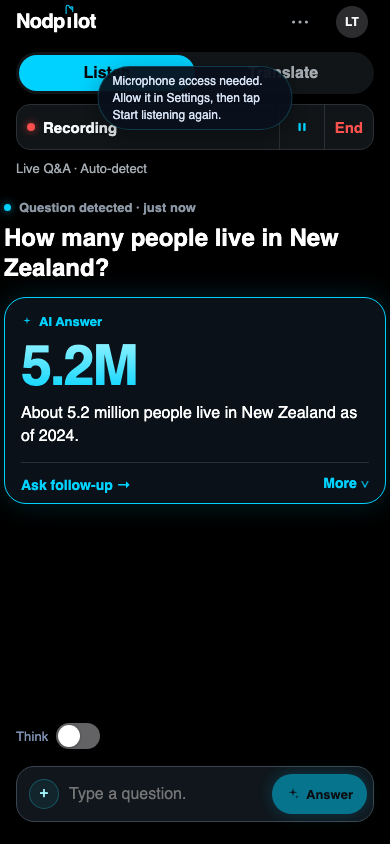
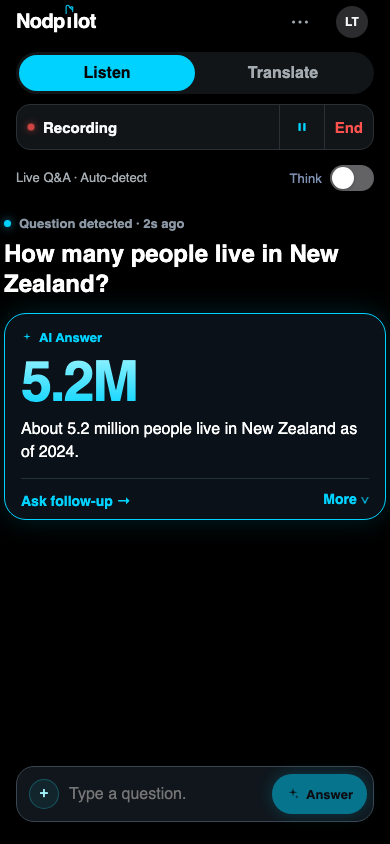
fix(listen): move the Think switch under End, right of the mode line (#219)
The phone Live Q&A kept the Think switch above the composer. Per the confirmed
#219 design it belongs in the recording chrome: under End, right-aligned on the
same row as the `Live Q&A · Auto-detect` mode line, with the 44 pt touch target
and no bottom copy.

- New `ThinkSwitch` component (label + iOS-style switch, role=switch,
  aria-checked, aria-label=Think); AnswerPane keeps it inline for wider layouts
  via `showThink={!phone}`, ListenPane renders it in the phone chrome.
- The phone's locked-settings row became a flex row: mode text left, switch
  right, wrapping only when the screen genuinely cannot fit both. The mode line
  is allowed to size to its text (the phone chrome's `width: 100%` would
  otherwise push the switch onto a second line).
- The composer no longer carries a Think row on the phone.
- When the phone shows the editable chips instead of the mode line (`!ready`,
  e.g. Live Q&A entered from a meeting that already has lines) the composer is
  still on screen, so the switch keeps its own right-aligned row rather than
  disappearing with the old placement.

Tests: think.spec.ts now pins the desktop inline row and, at 390x844, that the
row sits below End, right of the mode line, right-aligned, >=44 pt, with exactly
one switch and no `.listen-qa .think-row`; plus the editable-settings state.
`docs/design/think-182/phone-think-{off,on}.png` regenerated as evidence.

diff --git a/web/e2e/think.spec.ts b/web/e2e/think.spec.ts
@@ -46,7 +46,7 @@ function shot(page: import('@playwright/test').Page, name: string) {
 }
 
 test.describe('Think switch', () => {
-  test('sits above the Live Q&A input, defaults to off, and is absent elsewhere', async ({ page }) => {
+  test('keeps the inline switch above the input off-phone, defaults to off, and is absent elsewhere', async ({ page }) => {
     await mockWs(page)
 
     const toggle = page.getByRole('switch', { name: 'Think' })
@@ -56,12 +56,15 @@ test.describe('Think switch', () => {
     await expect(toggle.locator('.think-switch')).toBeVisible()
     await expect(toggle.locator('.think-dot')).toHaveCount(0)
 
-    // It sits ABOVE the existing input, which stays visible and unchanged.
+    // Wider layouts keep the switch inline: ABOVE the existing input, which stays
+    // visible and unchanged. The phone moves it into the recording chrome instead
+    // (the phone-viewport test below).
     const toggleBox = await toggle.boundingBox()
     const inputBox = await page.locator('.prompt-input').boundingBox()
     expect(toggleBox).not.toBeNull()
     expect(inputBox).not.toBeNull()
     expect(toggleBox!.y).toBeLessThan(inputBox!.y)
+    await expect(page.locator('.think-row')).toBeVisible()
     await expect(page.locator('.prompt-input')).toBeVisible()
     await shot(page, 'interview-think-off')
 
@@ -502,26 +505,69 @@ test.describe('Think answer rendering', () => {
 })
 
 /**
- * Phone-width before/after evidence (#182 acceptance: the composer must stay
- * usable with the keyboard up). The on-screen keyboard itself is a native
+ * Phone-width before/after evidence (#219: the Think switch belongs to the
+ * recording chrome, not the composer). The on-screen keyboard itself is a native
  * overlay a browser cannot draw — the layout side of that is covered by the
  * `keyboardInset` unit test — so these shots pin the phone layout itself.
  */
 test.describe('Think on a phone viewport', () => {
   test.use({ viewport: { width: 390, height: 844 } })
 
-  test('shows the switch above the composer, off and on', async ({ page }) => {
-    const { send } = await mockWs(page)
-    // A phone only has the Live Q&A composer inside a live session: on its own
-    // Ready screen there is no input to sit above. Mark capture listening.
+  test('sits under End, right of the mode line, off and on', async ({ page }) => {
+    const { sent, send } = await mockWs(page)
+    // A phone only shows the recording chrome and the mode line inside a live
+    // session: on the Ready screen there is no End button to sit under.
     send({ type: 'phase', capture: 'listening', engine: 'idle' })
     const toggle = page.getByRole('switch', { name: 'Think' })
     await expect(toggle).toBeVisible()
     await expect(toggle).toHaveAttribute('aria-checked', 'false')
+    // Exactly one switch: the composer must not keep a second, bottom copy.
+    await expect(page.getByRole('switch', { name: 'Think' })).toHaveCount(1)
+    await expect(page.locator('.listen-qa .think-row')).toHaveCount(0)
+    await expect(page.locator('.iphone-meta-row .think-toggle')).toHaveCount(1)
+
+    const toggleBox = await toggle.boundingBox()
+    const endBox = await page.locator('.iphone-rec-end').boundingBox()
+    const metaBox = await page.locator('.iphone-meta-row .iphone-meta').boundingBox()
+    const rowBox = await page.locator('.iphone-meta-row').boundingBox()
+    expect(toggleBox).not.toBeNull()
+    expect(endBox).not.toBeNull()
+    expect(metaBox).not.toBeNull()
+    expect(rowBox).not.toBeNull()
+    // Under the End button (the recording bar is directly above this row) ...
+    expect(toggleBox!.y).toBeGreaterThanOrEqual(endBox!.y + endBox!.height)
+    // ... on the SAME line as the mode description: left text, right switch ...
+    expect(metaBox!.x + metaBox!.width).toBeLessThanOrEqual(toggleBox!.x)
+    expect(Math.abs((metaBox!.y + metaBox!.height / 2) - (toggleBox!.y + toggleBox!.height / 2))).toBeLessThan(12)
+    // ... and right-aligned inside the row, with a >=44 pt touch target.
+    expect(toggleBox!.x).toBeGreaterThan(rowBox!.x + rowBox!.width / 2)
+    expect(toggleBox!.height).toBeGreaterThanOrEqual(44)
+    // The app asks for mic access when the mocked recorder starts; a browser
+    // without one leaves its "Microphone access needed" toast over the top bar
+    // for 2 s. It is unrelated to this switch, so let it clear before the shot.
+    await page.waitForTimeout(2400)
     await shot(page, 'phone-think-off')
 
     await toggle.click()
     await expect(toggle).toHaveAttribute('aria-checked', 'true')
+    // Toggling is not a submit.
+    expect(sent.filter((m) => m.type === 'ask')).toHaveLength(0)
     await shot(page, 'phone-think-on')
+  })
+
+  test('keeps the switch reachable while Live Q&A shows editable settings', async ({ page }) => {
+    // Live Q&A entered from a meeting that already has lines: capture is off, so
+    // the phone shows the editable chips instead of the mode line — but the Q&A
+    // composer is still on screen, so the switch must not disappear with the old
+    // composer placement.
+    await mockWs(page, '/app?demo=meeting')
+    await page.getByRole('button', { name: /^Meeting/ }).click()
+    await page.getByRole('option', { name: /Live Q&A/ }).click()
+    await expect(page.locator('.prompt-input')).toBeVisible()
+    const toggle = page.getByRole('switch', { name: 'Think' })
+    await expect(toggle).toBeVisible()
+    await expect(page.locator('.iphone-meta-row .think-toggle')).toHaveCount(1)
+    await expect(page.locator('.iphone-meta')).toHaveCount(0)
+    await expect(page.locator('.listen-qa .think-row')).toHaveCount(0)
   })
 })

diff --git a/web/src/components/ListenPane.tsx b/web/src/components/ListenPane.tsx
@@ -44,6 +44,7 @@ import AskBubble from './AskBubble'
 import ListenRecordBar from './ListenRecordBar'
 import PhoneSheet from './PhoneSheet'
 import SpeakerAvatar from './SpeakerAvatar'
+import ThinkSwitch from './ThinkSwitch'
 
 interface Props {
   scene: ListenScene
@@ -68,6 +69,9 @@ interface Props {
   notesReveal?: number
   qa?: boolean
   qaSlot?: ReactNode
+  /** #219: the phone's Live Q&A Think switch, rendered under End on the mode line. */
+  think?: boolean
+  onThink?: (on: boolean) => void
   onScene: (scene: ListenScene) => void
   speechLang: Lang
   heardLang?: PairLang | null
@@ -1667,20 +1671,50 @@ export default function ListenPane(props: Props) {
           {endedSheetUi ? (
             settingsList(IPHONE_COPY.appliesToNextRecording)
           ) : settingsLockedUi ? (
-            <p className="iphone-meta" aria-label={IPHONE_COPY.settingsReadonlyAria}>
-              {listenMetaLine({
-                scene: props.scene,
-                speakersId: props.meetingSpeakersId,
-                speechLang: props.speechLang,
-                notesLang: props.notesLang,
-                qa: Boolean(props.qa),
-              })}
-            </p>
+            props.qa ? (
+              // #219: the Think switch sits under End, right-aligned on the same
+              // row as the Live Q&A · Auto-detect mode line. It is not repeated
+              // at the bottom of the composer.
+              <div className="iphone-meta-row">
+                <p className="iphone-meta" aria-label={IPHONE_COPY.settingsReadonlyAria}>
+                  {listenMetaLine({
+                    scene: props.scene,
+                    speakersId: props.meetingSpeakersId,
+                    speechLang: props.speechLang,
+                    notesLang: props.notesLang,
+                    qa: Boolean(props.qa),
+                  })}
+                </p>
+                {props.onThink ? (
+                  <ThinkSwitch on={Boolean(props.think)} onToggle={props.onThink} />
+                ) : null}
+              </div>
+            ) : (
+              <p className="iphone-meta" aria-label={IPHONE_COPY.settingsReadonlyAria}>
+                {listenMetaLine({
+                  scene: props.scene,
+                  speakersId: props.meetingSpeakersId,
+                  speechLang: props.speechLang,
+                  notesLang: props.notesLang,
+                  qa: Boolean(props.qa),
+                })}
+              </p>
+            )
           ) : settingsEndedUi ? (
             settingsList(IPHONE_COPY.appliesToNextRecording)
           ) : askPlacement === 'bar' ? null : (
             controls
           )}
+          {/* #219: whenever the phone is not actively listening/paused it shows the
+              editable settings (or nothing) instead of the mode line, while the
+              Live Q&A composer can still be on screen (e.g. a meeting's lines
+              carried into Live Q&A). The switch keeps its own right-aligned row
+              there rather than vanishing with the old composer placement. */}
+          {!settingsLockedUi && props.qa && props.onThink ? (
+            <div className="iphone-meta-row">
+              <ThinkSwitch on={Boolean(props.think)} onToggle={props.onThink} />
+            </div>
+          ) : null}
           {props.showSavedLine ? (
             <div className="iphone-saved-line">
               <span className="iphone-saved-check" aria-hidden="true">✓</span>

diff --git a/web/src/components/AnswerPane.tsx b/web/src/components/AnswerPane.tsx
@@ -5,6 +5,7 @@ import { toPayload } from '../attach'
 import { QaAnswerCard } from './QaAnswerCard'
 import PromptAttach from './PromptAttach'
 import EmptyState from './EmptyState'
+import ThinkSwitch from './ThinkSwitch'
 
 interface Props {
   currentQ: string
@@ -14,11 +15,17 @@ interface Props {
   listening?: boolean
   onAsk: (text: string, files?: AttachPayload[]) => void
   onCompose?: (on: boolean) => void
-  /** #182: session Think switch — the toggle sits above the existing input. */
+  /** #182: session Think switch. */
   think?: boolean
   onThink?: (on: boolean) => void
   /** #182: re-ask one answered question with the Think value it originally ran with. */
   onRetryTurn?: (id: string) => void
+  /**
+   * #219: off-phone this pane owns the Think switch and keeps it above the
+   * composer. The phone puts it in the recording chrome instead (under End,
+   * right of the mode line), so it must not render a second switch here.
+   */
+  showThink?: boolean
 }
 
 function Sparkle() {
@@ -30,7 +37,7 @@ function Sparkle() {
   )
 }
 
-export default function AnswerPane({ currentQ, partial, turns, busy, listening, onAsk, onCompose, think = false, onThink, onRetryTurn }: Props) {
+export default function AnswerPane({ currentQ, partial, turns, busy, listening, onAsk, onCompose, think = false, onThink, onRetryTurn, showThink = true }: Props) {
   const [input, setInput] = useState('')
   const [files, setFiles] = useState<LocalAttach[]>([])
   const [now, setNow] = useState(() => Date.now())
@@ -146,23 +153,14 @@ export default function AnswerPane({ currentQ, partial, turns, busy, listening, 
         </button>
       )}
 
-      {/* #219: Think label + iOS switch above the existing Q&A input.
-          Toggling does not submit; the value belongs to the session. */}
-      <div className="think-row">
-        <button
-          type="button"
-          className={`think-toggle${think ? ' on' : ''}`}
-          role="switch"
-          aria-checked={think}
-          aria-label="Think"
-          onClick={() => onThink?.(!think)}
-        >
-          Think
-          <span className="think-switch" aria-hidden="true">
-            <span className="think-knob" />
-          </span>
-        </button>
-      </div>
+      {/* #219: off-phone, the Think label + iOS switch stay above the existing
+          Q&A input. Toggling does not submit; the value belongs to the session.
+          On the phone the switch lives in the recording chrome instead. */}
+      {showThink && (
+        <div className="think-row">
+          <ThinkSwitch on={think} onToggle={(on) => onThink?.(on)} />
+        </div>
+      )}
 
       <PromptAttach
         files={files}

diff --git a/web/src/App.css b/web/src/App.css
@@ -5039,12 +5039,47 @@ a.tb-menu-action {
   cursor: pointer;
 }
 
-/* #219: Think label + iOS switch above the existing Live Q&A input.
-   No capsule, no lamp icon. Toggling does not submit. */
+/* #219: Think label + iOS switch above the existing Live Q&A input (wider
+   layouts). No capsule, no lamp icon. Toggling does not submit. */
 .think-row {
   display: flex;
   align-items: center;
   padding: 0 2px 6px;
+}
+
+/* #219 (phone): the same switch under End, right-aligned on the Live Q&A ·
+   Auto-detect mode line. The row keeps the 44 pt touch target and lets a long
+   mode line wrap instead of squeezing it. */
+.iphone-meta-row {
+  display: flex;
+  align-items: center;
+  justify-content: space-between;
+  flex-wrap: wrap;
+  gap: 0 12px;
+  min-height: 44px;
+  margin: 0 0 6px;
+  box-sizing: border-box;
+}
+
+.iphone-meta-row .iphone-meta {
+  flex: 1 1 auto;
+  min-width: 0;
+}
+
+.iphone-meta-row .think-toggle {
+  flex: 0 0 auto;
+  /* Stay right-aligned even when the mode line wraps the switch onto its own line. */
+  margin-left: auto;
+}
+
+/* The phone chrome sets `.iphone-meta { width: 100%; margin: 4px 0 12px }`, which
+   would push the switch onto a second line; inside this row the mode line sizes
+   to its text and centers on the switch, so both share one line. */
+html.nod-phone .app.iphone-v2 .iphone-stack .iphone-meta-row .iphone-meta {
+  width: auto;
+  min-width: 0;
+  flex: 1 1 auto;
+  margin: 0;
 }
 
 .think-toggle {
@@ -6536,6 +6571,7 @@ html.nod-phone .app.iphone-v2 .iphone-stack {
 html.nod-phone .app.iphone-v2 .iphone-stack .iphone-actions,
 html.nod-phone .app.iphone-v2 .iphone-stack .listen-controls,
 html.nod-phone .app.iphone-v2 .iphone-stack .iphone-meta,
+html.nod-phone .app.iphone-v2 .iphone-stack .iphone-meta-row,
 html.nod-phone .app.iphone-v2 .iphone-stack .iphone-settings,
 html.nod-phone .app.iphone-v2 .iphone-stack .listen-mobile-tabs,
 html.nod-phone .app.iphone-v2 .iphone-stack .tr-toolbar {

diff --git a/web/src/components/ThinkSwitch.tsx b/web/src/components/ThinkSwitch.tsx
@@ -1,0 +1,26 @@
+/**
+ * #219: the Live Q&A Think control — the `Think` label plus an iOS-style sliding
+ * switch. It owns no state: the session's Think value lives in App and reaches
+ * the server as `set_think`. Toggling never submits a question.
+ *
+ * Placement is the caller's business: the phone renders it in the recording
+ * chrome next to the mode line (ListenPane), the wider layout keeps it inline
+ * above the composer (AnswerPane).
+ */
+export default function ThinkSwitch({ on, onToggle }: { on: boolean; onToggle: (on: boolean) => void }) {
+  return (
+    <button
+      type="button"
+      className={`think-toggle${on ? ' on' : ''}`}
+      role="switch"
+      aria-checked={on}
+      aria-label="Think"
+      onClick={() => onToggle(!on)}
+    >
+      Think
+      <span className="think-switch" aria-hidden="true">
+        <span className="think-knob" />
+      </span>
+    </button>
+  )
+}

diff --git a/web/src/App.tsx b/web/src/App.tsx
@@ -4077,8 +4077,14 @@ export default function App() {
                 onRetryTurn={handleRetryTurn}
                 think={state.thinkOn}
                 onThink={handleThink}
+                // #219: the phone has no bottom Think row — ListenPane renders the
+                // switch under End, on the Live Q&A · Auto-detect line.
+                showThink={!phone}
               />
             }
+            // #219: same switch, phone chrome placement; never rendered twice.
+            think={state.thinkOn}
+            onThink={handleThink}
             onScene={(scene) => {
               const s = stateRef.current
               if (listenSettingsBlocked({ capture: s.capture, workspaceMode: s.workspaceMode })) {
